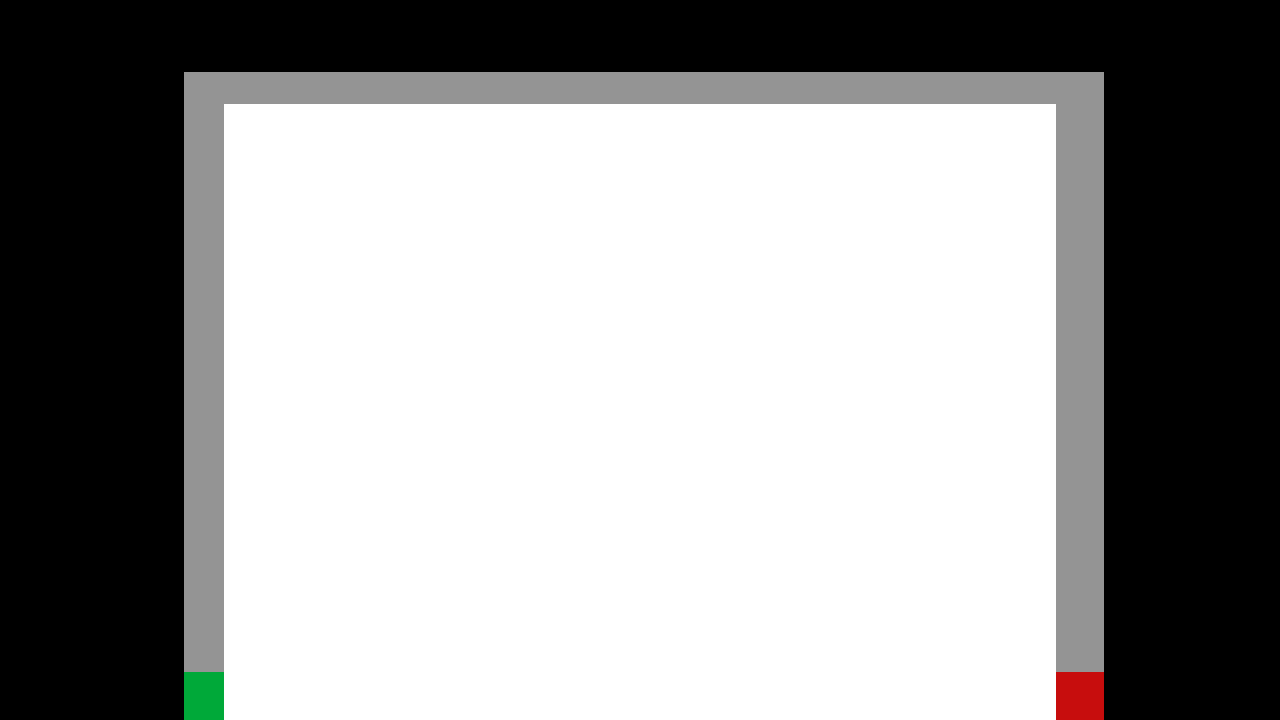
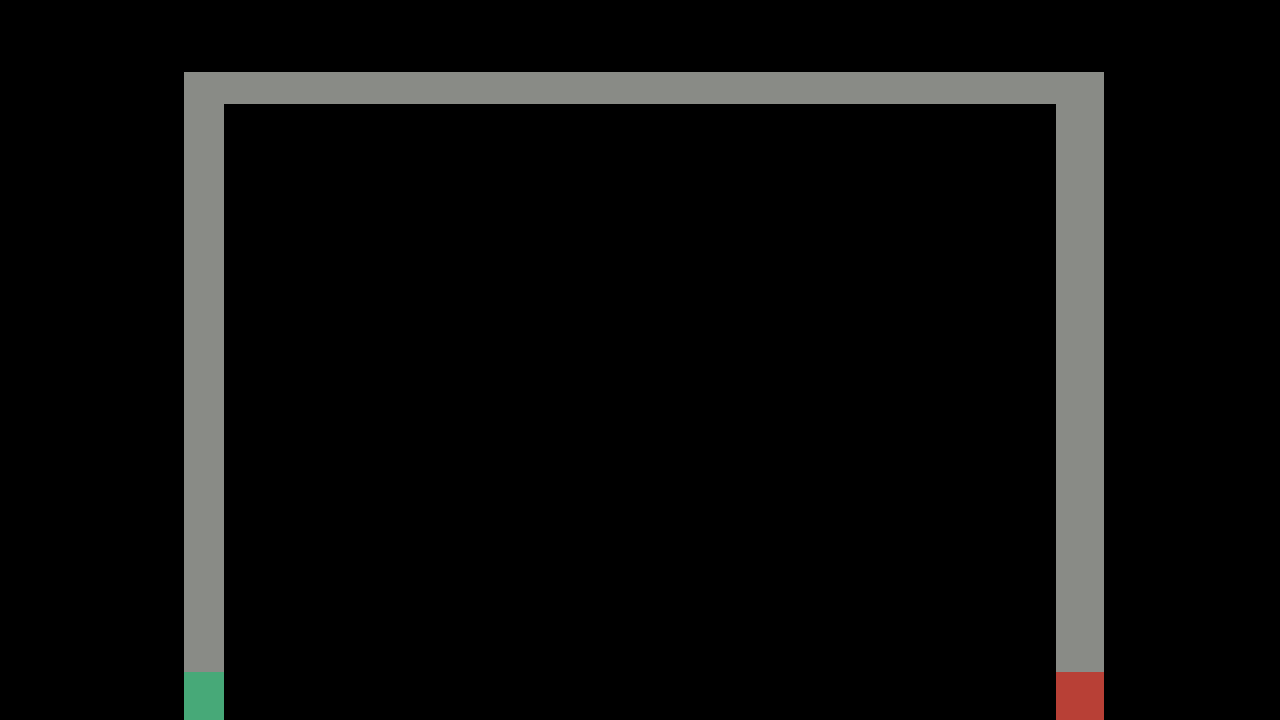
Draw Bricks, Define Collors

diff --git a/BreakOut_PyGame.py b/BreakOut_PyGame.py
@@ -1,4 +1,6 @@
 import pygame
+# Bricks Size 4x8 -> 32x64
+# Player size 4x16 -> 32x128
 
 # Screen set
 pygame.init()
@@ -19,6 +21,24 @@ ball_dx = 5
 ball_dy = 7
 ball_x = 640
 ball_y = 360
+
+# Game Variables
+cols = 13
+rows = 7
+brick_height = 32
+brick_width = 64
+
+brick_list = []
+brick_color_list = [(200, 73, 70), (180, 123, 46), (197, 109, 59),
+                    (180, 123, 46), (163, 162, 43), (70, 172, 65),
+                    (62, 72, 197)]
+
+for row in range(rows):
+    for col in range(cols):
+        x = 224 + (brick_width * col)
+        y = 104 + (brick_height * row)
+        block = pygame.Rect(x, y, brick_width, brick_height)
+        brick_list.append(block)
 
 pygame.mouse.set_visible(False)
 
@@ -61,6 +81,23 @@ while game_cycle:
     screen.blit(screen_bg, (0, 0))
     screen.blit(player, (player_x, 680))
     screen.blit(ball, (ball_x, ball_y))
+
+    color_try = 0
+    color_row = 0
+    # Bricks
+    for block in brick_list:
+        # Select Color
+        if color_row > 6:
+            color_row = 0
+        # Draw Bricks
+        pygame.draw.rect(screen, brick_color_list[color_row], block)
+
+        # Count color at List
+        color_try += 1
+        if (color_try // 13) == 1:
+            color_row += 1
+            color_try = 0
+
     pygame.display.flip()
     game_clock.tick(60)
 
